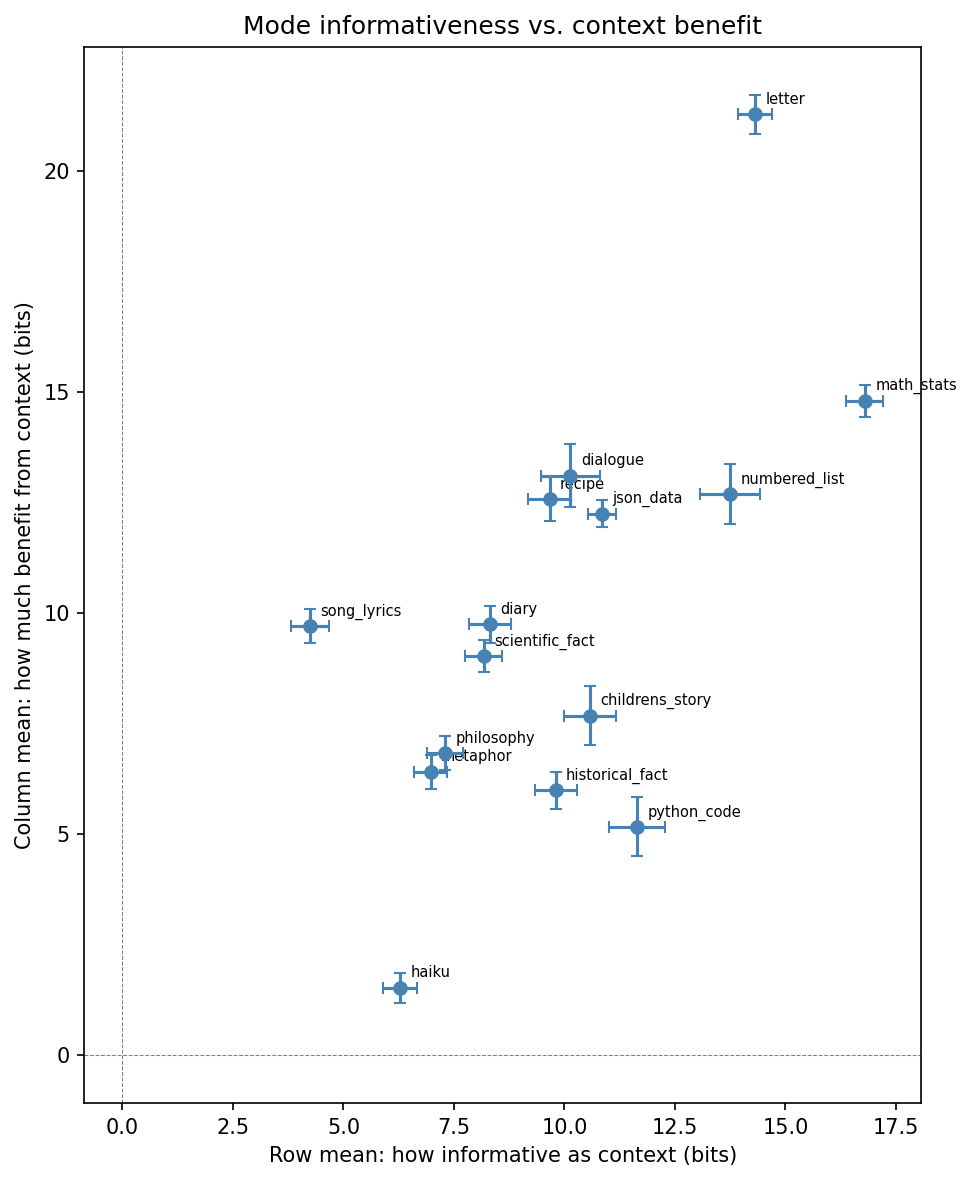
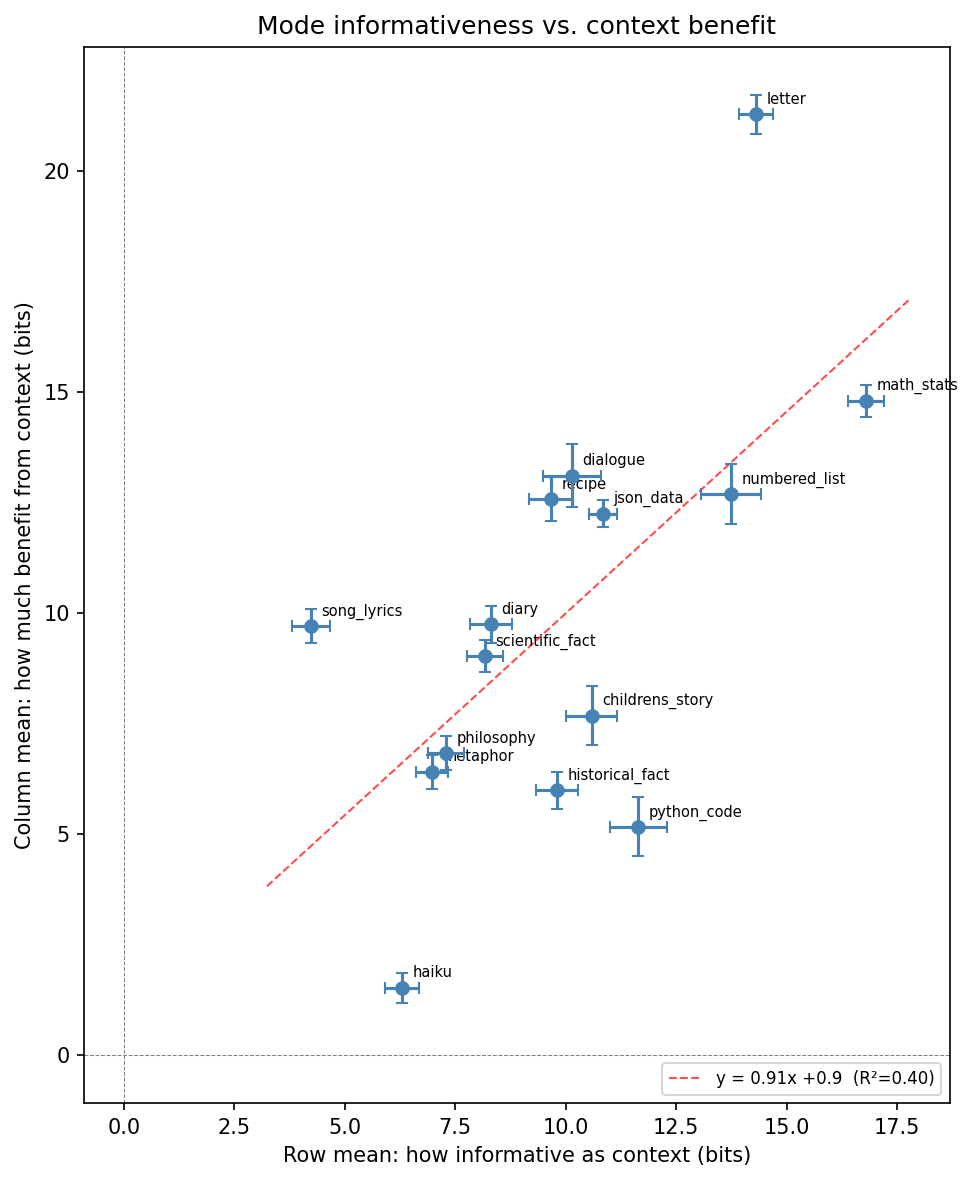
investigation: add line of best fit to row vs col scatter (R²=0.40, slope=0.91)

diff --git a/investigations/cross_mode_surprise_drop/07_pairwise_matrix.py b/investigations/cross_mode_surprise_drop/07_pairwise_matrix.py
@@ -328,6 +328,15 @@ for i in range(N_MODES):
     )
 ax.axhline(0, color="gray", linewidth=0.5, linestyle="--")
 ax.axvline(0, color="gray", linewidth=0.5, linestyle="--")
+
+# Line of best fit
+coeffs = np.polyfit(row_means, col_means, 1)
+fit_x = np.linspace(row_means.min() - 1, row_means.max() + 1, 100)
+fit_y = np.polyval(coeffs, fit_x)
+ax.plot(fit_x, fit_y, color="red", linewidth=1, linestyle="--", alpha=0.7,
+        label=f"y = {coeffs[0]:.2f}x {coeffs[1]:+.1f}  (R²={np.corrcoef(row_means, col_means)[0,1]**2:.2f})")
+ax.legend(fontsize=8, loc="lower right")
+
 ax.set_xlabel("Row mean: how informative as context (bits)")
 ax.set_ylabel("Column mean: how much benefit from context (bits)")
 ax.set_title("Mode informativeness vs. context benefit")
